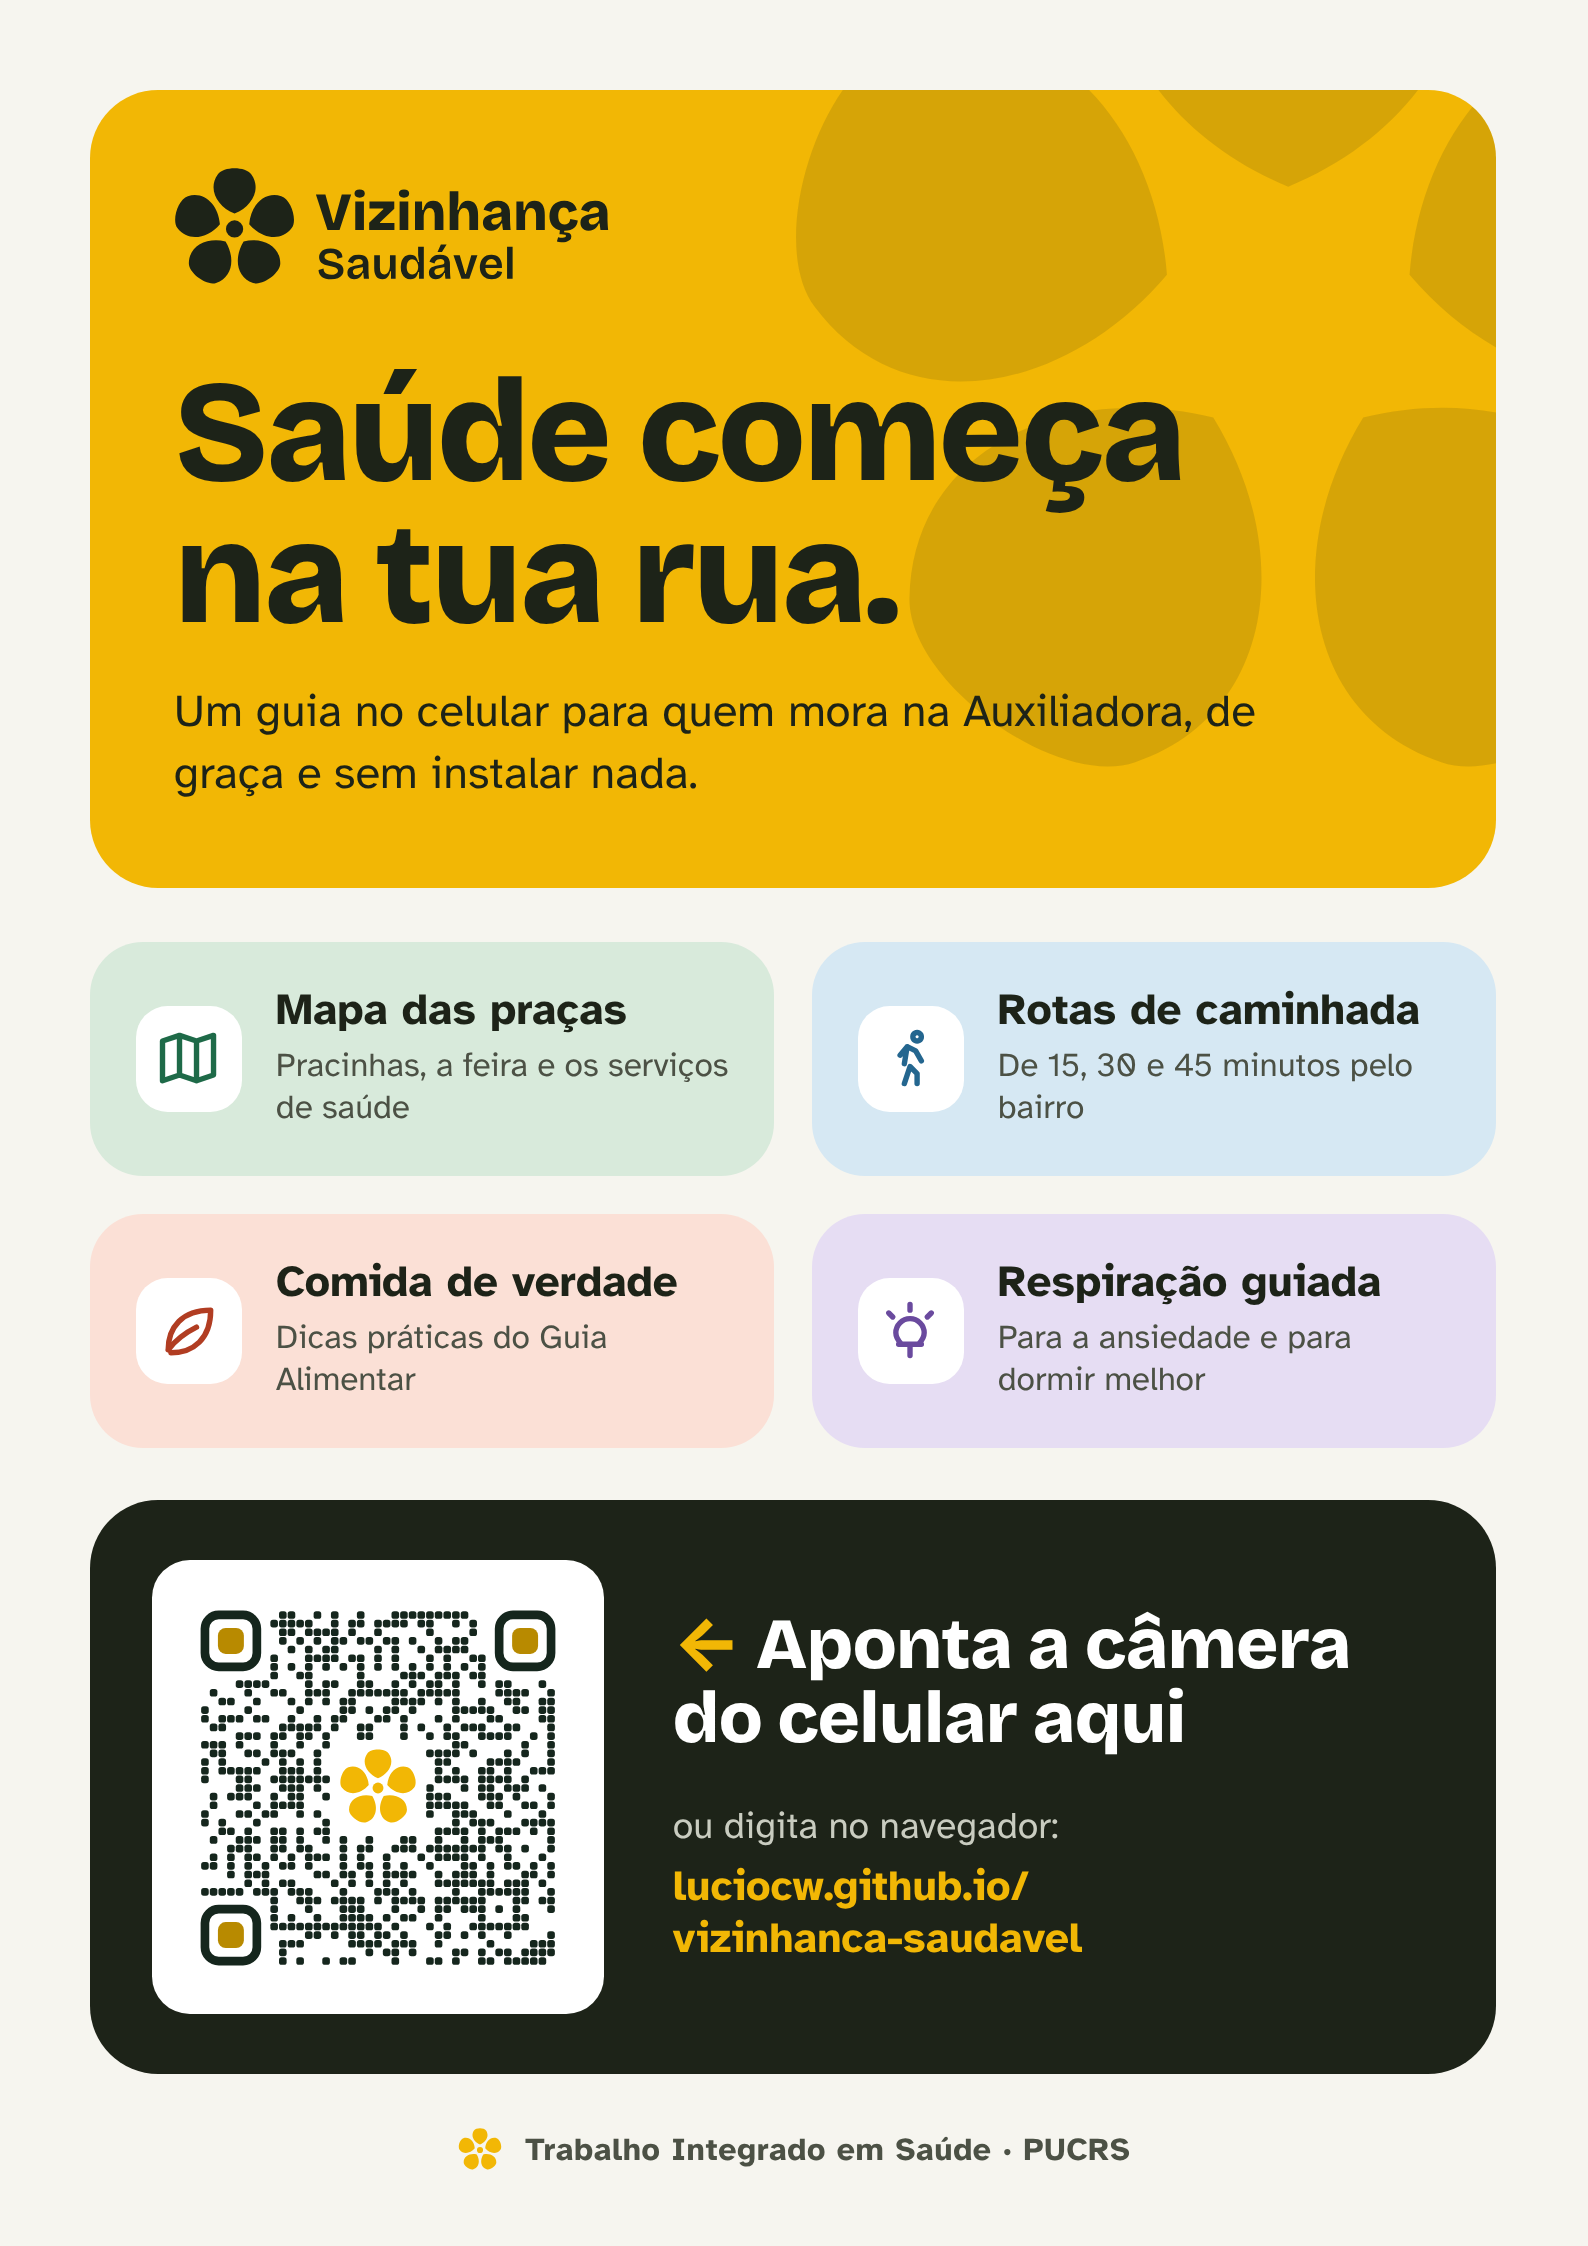
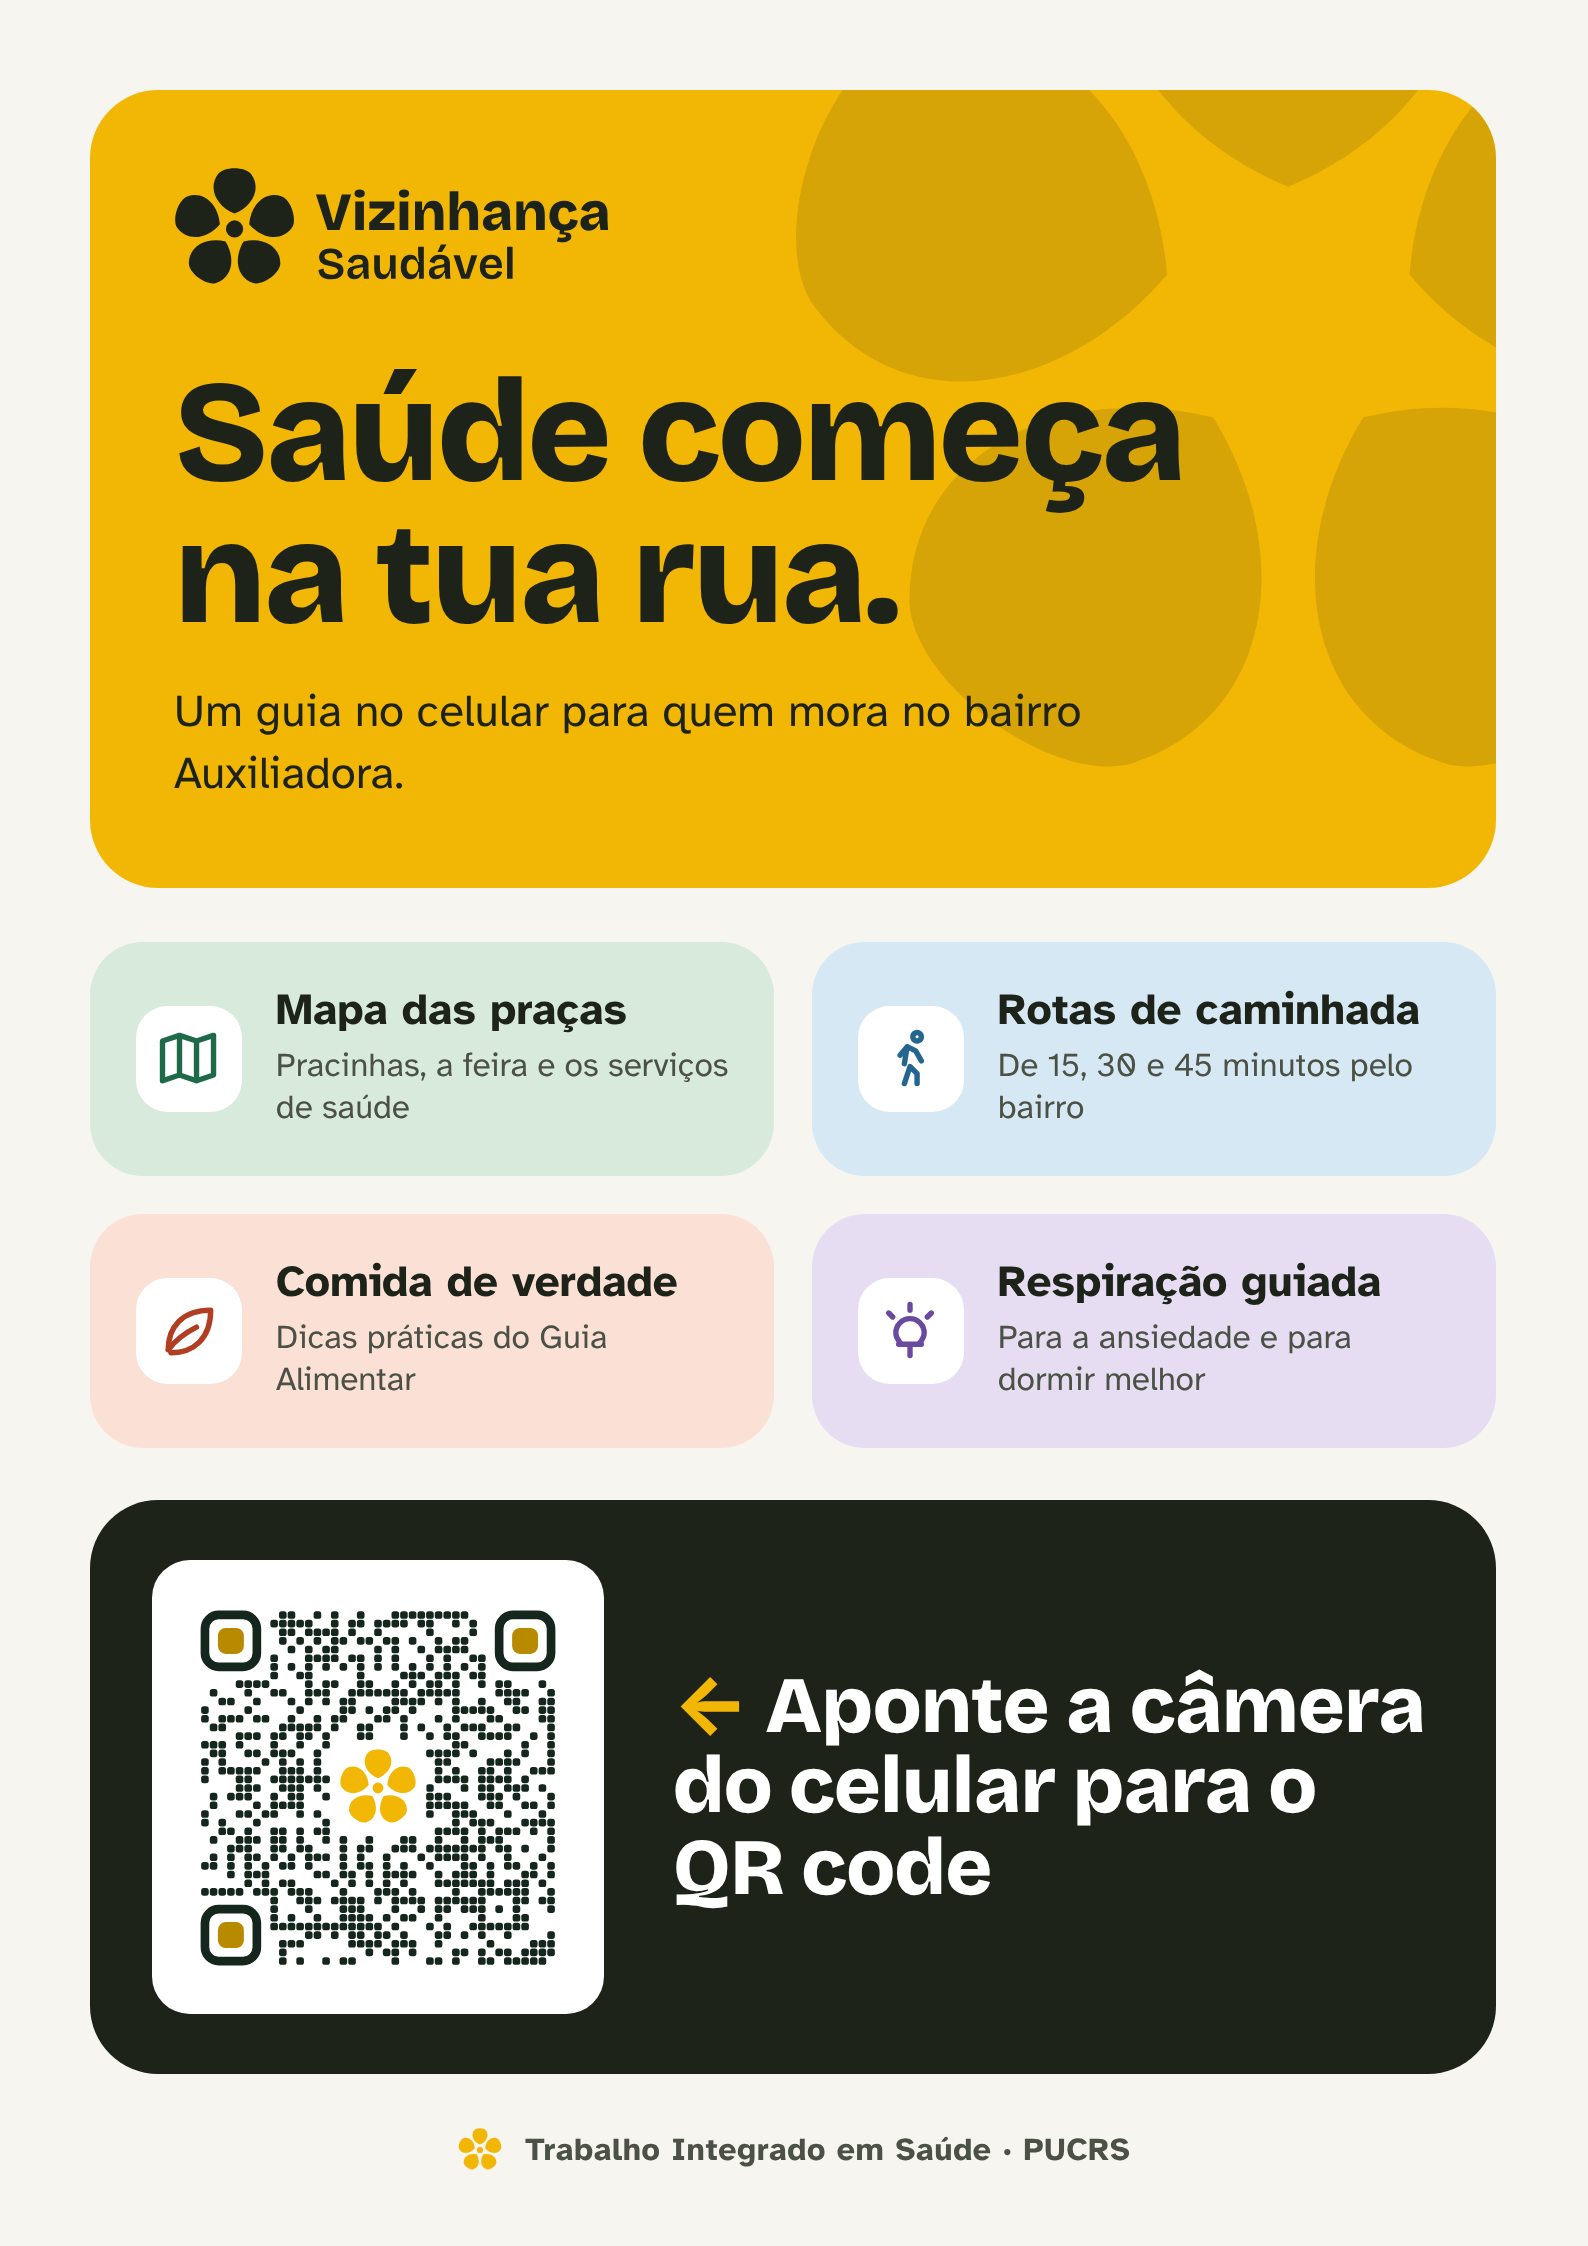
fix: textos do cartaz A4 (subtítulo e chamada do QR, sem o link)
Claude-Session: https://claude.ai/code/session_01Lk4aKrLE2WyPj5wJJyUWNt

diff --git a/marca/impressos/cartaz-a4.html b/marca/impressos/cartaz-a4.html
@@ -12,7 +12,7 @@
     <svg class="petals" viewBox="2 2 60 60" aria-hidden="true"><g fill="#1d2318" fill-opacity="0.13"><path transform="translate(32 32) rotate(0)" d="M0 -7.5C8.5-11 13.2-19.5 8.2-26.6C5.4-30.6-5.4-30.6-8.2-26.6C-13.2-19.5-8.5-11 0-7.5z"/><path transform="translate(32 32) rotate(72)" d="M0 -7.5C8.5-11 13.2-19.5 8.2-26.6C5.4-30.6-5.4-30.6-8.2-26.6C-13.2-19.5-8.5-11 0-7.5z"/><path transform="translate(32 32) rotate(144)" d="M0 -7.5C8.5-11 13.2-19.5 8.2-26.6C5.4-30.6-5.4-30.6-8.2-26.6C-13.2-19.5-8.5-11 0-7.5z"/><path transform="translate(32 32) rotate(216)" d="M0 -7.5C8.5-11 13.2-19.5 8.2-26.6C5.4-30.6-5.4-30.6-8.2-26.6C-13.2-19.5-8.5-11 0-7.5z"/><path transform="translate(32 32) rotate(288)" d="M0 -7.5C8.5-11 13.2-19.5 8.2-26.6C5.4-30.6-5.4-30.6-8.2-26.6C-13.2-19.5-8.5-11 0-7.5z"/></g></svg>
     <img class="logo" src="../vizinhanca-horizontal-sobre-amarelo.svg" alt="Vizinhança Saudável">
     <h1>Saúde começa na tua rua.</h1>
-    <p class="sub">Um guia no celular para quem mora na Auxiliadora, de graça e sem instalar nada.</p>
+    <p class="sub">Um guia no celular para quem mora no bairro Auxiliadora.</p>
   </header>
 
   <div class="pilares">
@@ -37,9 +37,7 @@
   <div class="qr-bloco">
     <div class="qr"><img src="../qr-vizinhanca.svg" alt="QR Code para luciocw.github.io/vizinhanca-saudavel"></div>
     <div>
-      <p class="cta"><span class="seta">←</span> Aponta a câmera do celular aqui</p>
-      <p class="ou">ou digita no navegador:</p>
-      <p class="url">luciocw.github.io/<wbr><span class="nw">vizinhanca-saudavel</span></p>
+      <p class="cta"><span class="seta">←</span> Aponte a câmera do celular para o QR code</p>
     </div>
   </div>
 

diff --git a/marca/impressos/impressos.css b/marca/impressos/impressos.css
@@ -174,7 +174,7 @@ html, body {
 
 .a4 .qr-bloco { padding: 8mm; gap: 9mm; flex: 1; }
 .a4 .qr-bloco .qr { width: 60mm; height: 60mm; padding: 2mm; }
-.a4 .qr-bloco .cta { font-size: 27pt; }
+.a4 .qr-bloco .cta { font-size: 30pt; }
 .a4 .qr-bloco .ou { font-size: 14pt; margin-top: 6mm; }
 .a4 .qr-bloco .url { font-size: 16pt; margin-top: 1.5mm; }
 
